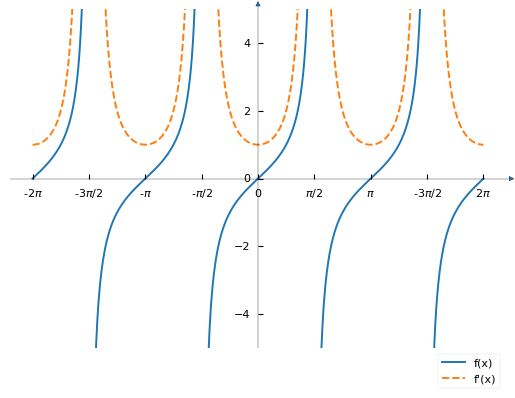
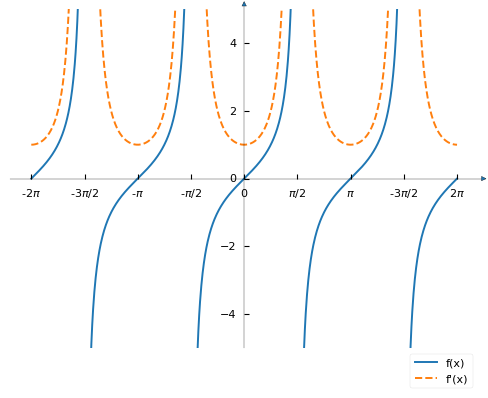
命名标准化，绘图风格标准化

diff --git a/cosx/draw.py b/cosx/draw.py
@@ -26,9 +26,14 @@ plt.xticks([-2 * np.pi, -3 * np.pi / 2, -np.pi, -np.pi / 2, 0, np.pi / 2, np.pi,
            [r'-$2\pi$', r'-$3\pi/2$', r'-$\pi$', r'-$\pi/2$', '0', r'$\pi/2$', r'$\pi$', r'-$3\pi/2$', r'$2\pi$'])
 plt.yticks([-1, 1])
 ax.set_aspect(1)
-f1, = ax.plot(x, np.cos(x), label="f(x)")
-f2, = ax.plot(x, -np.sin(x), label="f'(x)", linestyle="dashed")
-ax.legend(handles=[f1, f2], bbox_to_anchor=(1, 0), loc="upper right")
+# 函数和导数
+f1 = np.cos(x)
+f2 = -np.sin(x)
+# 函数图像和导数图像
+g1, = ax.plot(x, f1, label="f(x)")
+g2, = ax.plot(x, f2, label="f'(x)", linestyle="dashed")
+
+ax.legend(handles=[g1, g2], bbox_to_anchor=(1, 0), loc="upper right")
 figpath = CURDIR.joinpath("cosx.png")
 fig.savefig(figpath, bbox_inches="tight")
 plt.show()

diff --git a/sinx/draw.py b/sinx/draw.py
@@ -26,9 +26,15 @@ plt.xticks([-2 * np.pi, -3 * np.pi / 2, -np.pi, -np.pi / 2, 0, np.pi / 2, np.pi,
            [r'-$2\pi$', r'-$3\pi/2$', r'-$\pi$', r'-$\pi/2$', '0', r'$\pi/2$', r'$\pi$', r'-$3\pi/2$', r'$2\pi$'])
 plt.yticks([-1, 1])
 ax.set_aspect(1)
-f1, = ax.plot(x, np.sin(x), label="f(x)")
-f2, = ax.plot(x, np.cos(x), label="f'(x)", linestyle="dashed")
-ax.legend(handles=[f1, f2], bbox_to_anchor=(1, 0), loc="upper right")
+
+# 函数和导数
+f1 = np.sin(x)
+f2 = np.cos(x)
+# 函数图像和导数图像
+g1, = ax.plot(x, f1, label="f(x)")
+g2, = ax.plot(x, f2, label="f'(x)", linestyle="dashed")
+
+ax.legend(handles=[g1, g2], bbox_to_anchor=(1, 0), loc="upper right")
 figpath = CURDIR.joinpath("sinx.png")
 fig.savefig(figpath, bbox_inches="tight")
 plt.show()

diff --git a/tanx/draw.py b/tanx/draw.py
@@ -27,15 +27,18 @@ plt.xticks([-2 * np.pi, -3 * np.pi / 2, -np.pi, -np.pi / 2, 0, np.pi / 2, np.pi,
            [r'-$2\pi$', r'-$3\pi/2$', r'-$\pi$', r'-$\pi/2$', '0', r'$\pi/2$', r'$\pi$', r'-$3\pi/2$', r'$2\pi$'])
 # plt.yticks([-1, 1])
 plt.ylim(-5, 5)
-# tanx表示
+ax.set_aspect(1)
+
+# 函数
 f1 = np.tan(x)
 # 移除渐近线
 f1[:-1][np.diff(f1) < 0] = np.nan
 # 导函数
 f2 = 1 / (np.cos(x) ** 2)
-
+# 函数和导数图像
 g1, = ax.plot(x, f1, label="f(x)")
 g2, = ax.plot(x, f2, label="f'(x)", linestyle="dashed")
+
 ax.legend(handles=[g1, g2], bbox_to_anchor=(1, 0), loc="upper right")
 figpath = CURDIR.joinpath("tanx.png")
 fig.savefig(figpath, bbox_inches="tight")
